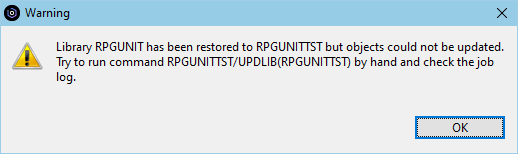
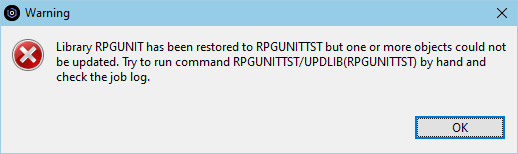
Updated iRPGUnit help.

Changed region(s): [[0.0, 0.2338, 0.9884, 0.4675], [0.0927, 0.4675, 0.3089, 0.5455]]

diff --git a/eclipse/iRPGUnit Help Plugin/html/troubleshooting/updlib_error.html b/eclipse/iRPGUnit Help Plugin/html/troubleshooting/updlib_error.html
@@ -12,7 +12,7 @@
 <p>
 <h2>Symptom</h1>
 <p>
-The following warning may be displayed, when uploading the iRPGUnit library:
+The following error may be displayed, when uploading the iRPGUnit library:
 <p class="indent">
 <img class="noborder" src="./assets/updlib_error.png">
 <p>
